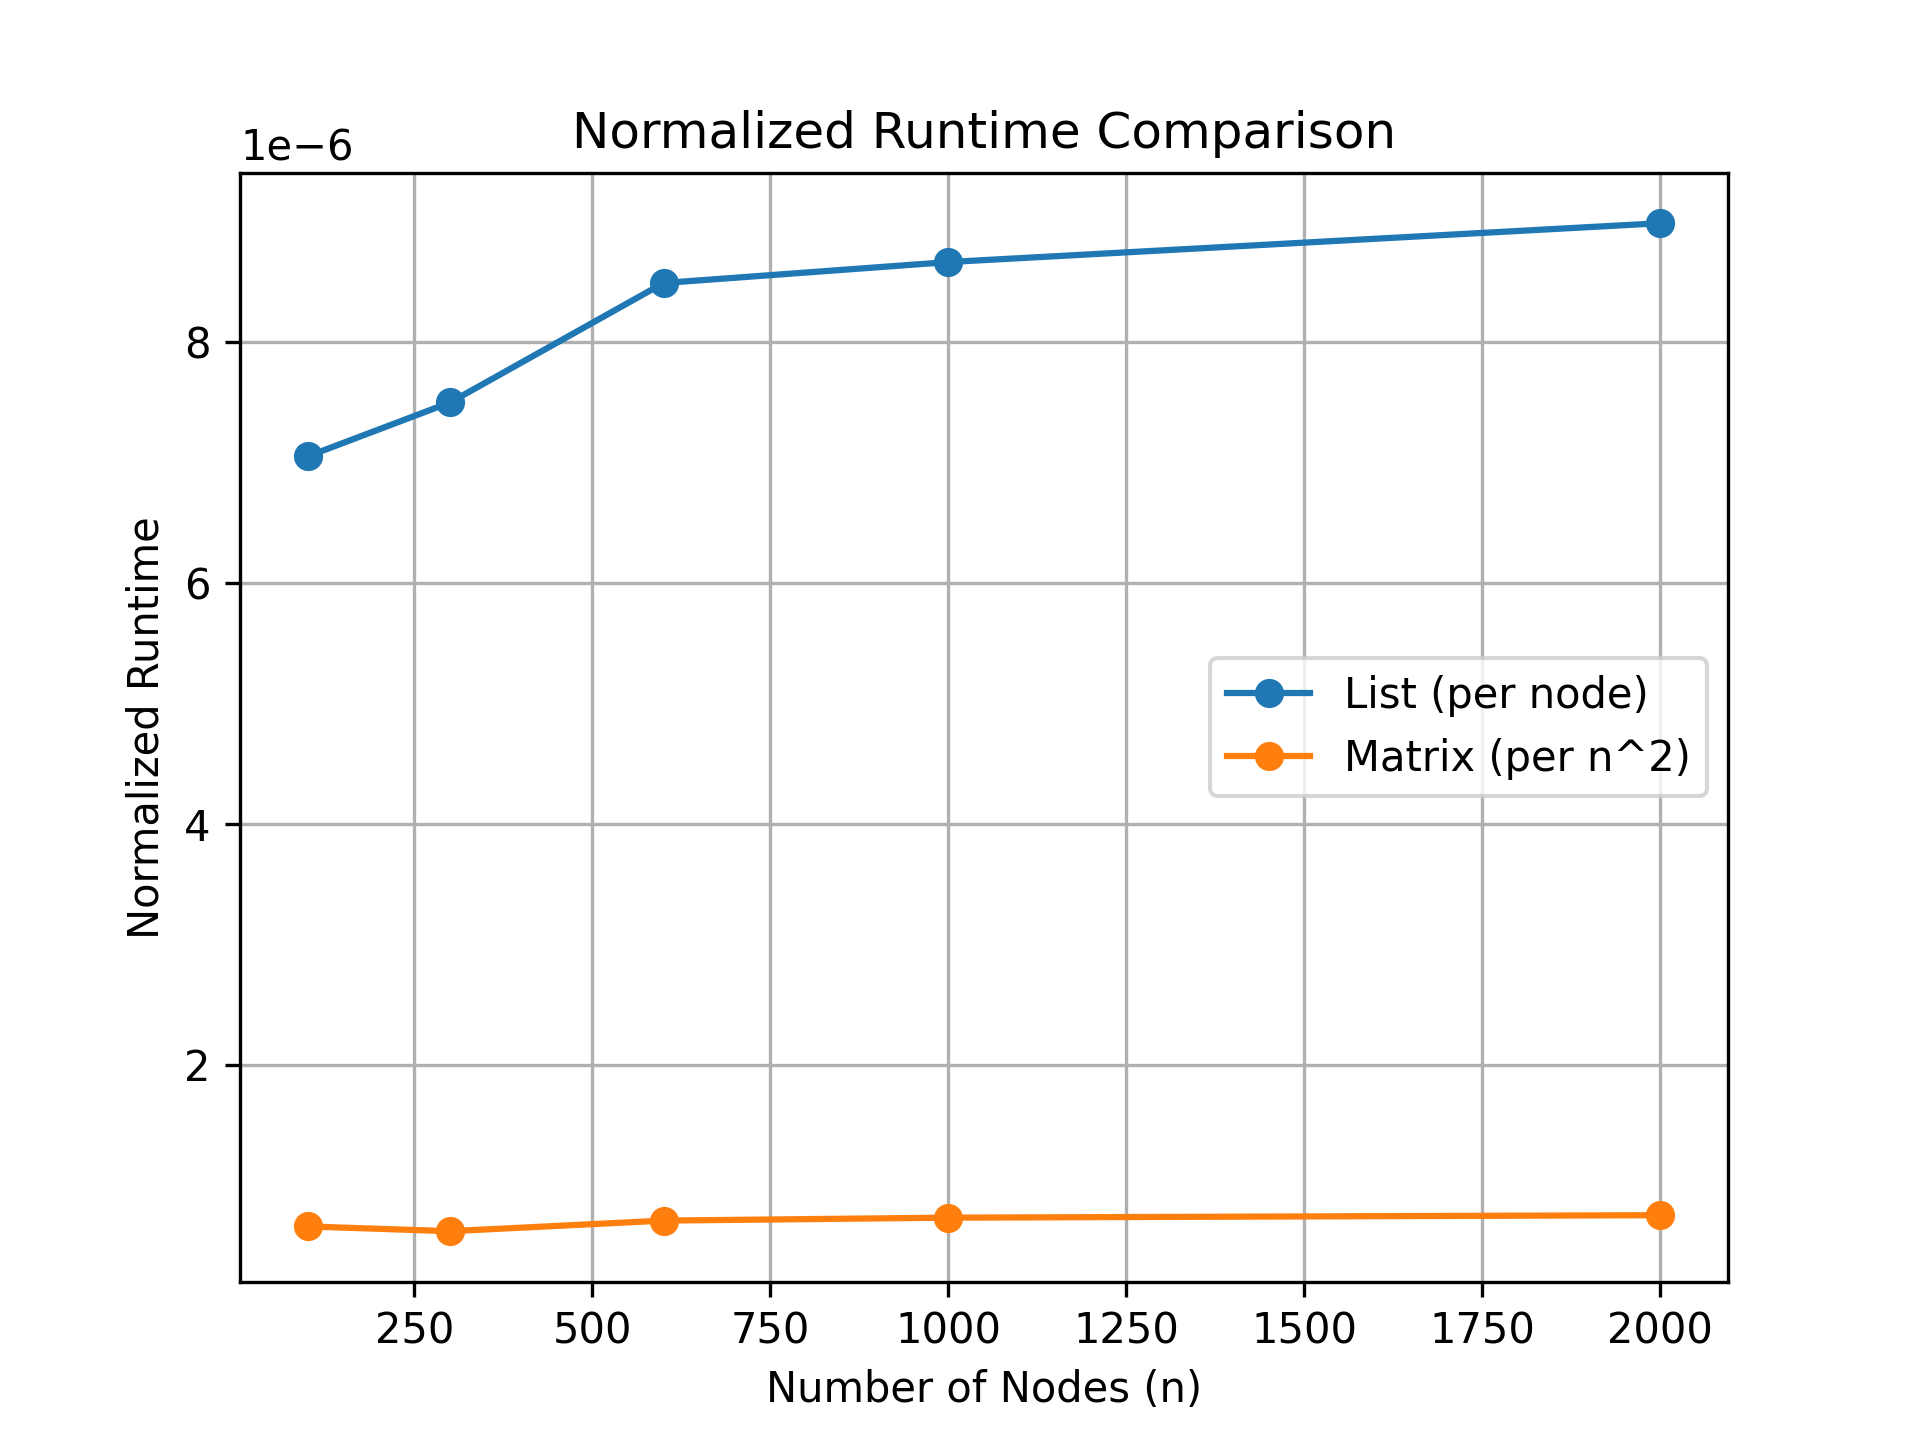
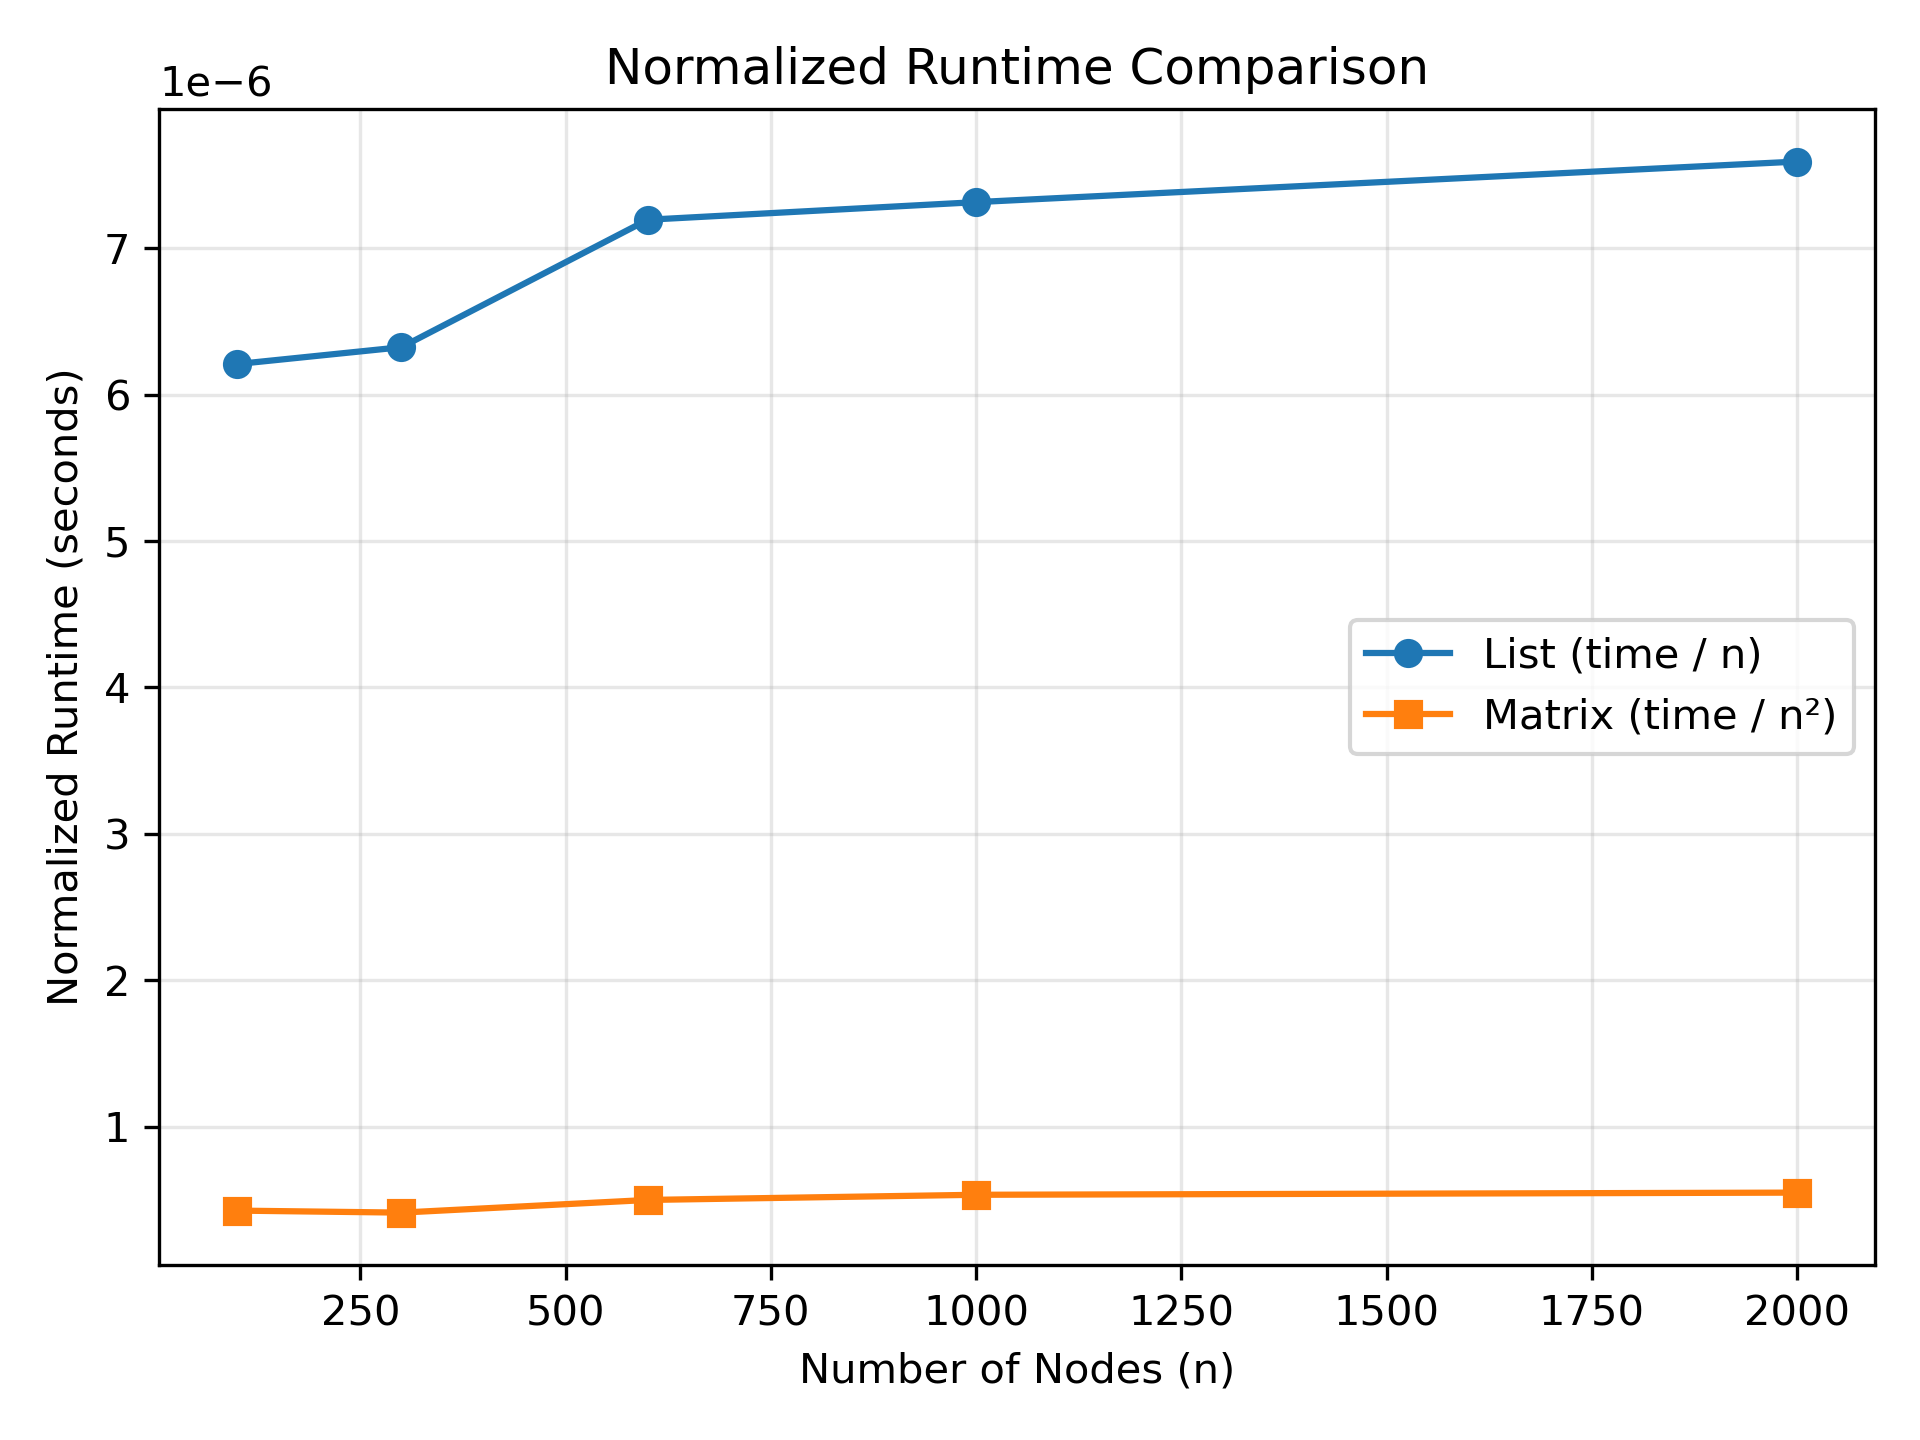
Updated graphs and memory tracking

diff --git a/pagerank.py b/pagerank.py
@@ -1,69 +1,113 @@
+"""
+PageRank Graph Representation Experiments
+
+Compares two graph representations for PageRank computation:
+  1. Adjacency Matrix  (O(N^2) space)
+  2. Adjacency List    (O(N + E) space)
+
+Measurements:
+  - Runtime vs graph size (with error bars over multiple trials)
+  - Normalized runtime (validates theoretical scaling)
+  - Runtime vs graph density
+  - Peak resident memory via tracemalloc (byte-level measurement)
+"""
+
 import random
 import time
-import matplotlib.pyplot as plt
+import tracemalloc
 import numpy as np
+import matplotlib.pyplot as plt
+
 
 # Graph Generation
 
-def generate_sparse_graph(n, avg_degree=3):
+def generate_sparse_graph(n, avg_degree=3, seed=None):
+    """Generate a random directed graph with approximately `avg_degree` out-edges per node."""
+    rng = random.Random(seed)
     graph = {i: set() for i in range(n)}
     for i in range(n):
         for _ in range(avg_degree):
-            j = random.randint(0, n-1)
+            j = rng.randint(0, n - 1)
             if j != i:
                 graph[i].add(j)
     return graph
 
 
-def generate_dense_graph(n, density=0.3):
+def generate_dense_graph(n, density=0.3, seed=None):
+    """Generate a random directed graph where each possible edge exists with probability `density`."""
+    rng = random.Random(seed)
     graph = {i: set() for i in range(n)}
     for i in range(n):
         for j in range(n):
-            if i != j and random.random() < density:
+            if i != j and rng.random() < density:
                 graph[i].add(j)
     return graph
+
 
 # Conversions
 
 def to_adjacency_matrix(graph, n):
-    matrix = [[0]*n for _ in range(n)]
+    """Convert dict-of-sets to an N x N list-of-lists adjacency matrix."""
+    matrix = [[0] * n for _ in range(n)]
     for i in graph:
         for j in graph[i]:
             matrix[i][j] = 1
     return matrix
 
+
 # PageRank Implementations
 
 def pagerank_list(graph, n, d=0.85, iterations=50):
-    pr = [1/n]*n
+    """PageRank over dict-of-sets adjacency list."""
+    pr = [1 / n] * n
     for _ in range(iterations):
-        new_pr = [(1-d)/n]*n
+        new_pr = [(1 - d) / n] * n
         for i in range(n):
-            if len(graph[i]) == 0:
+            out = graph[i]
+            if not out:
                 continue
-            share = pr[i] / len(graph[i])
-            for j in graph[i]:
-                new_pr[j] += d * share
+            share = d * pr[i] / len(out)
+            for j in out:
+                new_pr[j] += share
         pr = new_pr
     return pr
 
 
 def pagerank_matrix(matrix, n, d=0.85, iterations=50):
-    pr = [1/n]*n
+    """PageRank over dense N x N adjacency matrix."""
+    pr = [1 / n] * n
     outdeg = [sum(row) for row in matrix]
 
     for _ in range(iterations):
-        new_pr = [(1-d)/n]*n
+        new_pr = [(1 - d) / n] * n
         for i in range(n):
             if outdeg[i] == 0:
                 continue
+            share = d * pr[i] / outdeg[i]
+            row = matrix[i]
             for j in range(n):
-                if matrix[i][j] == 1:
-                    new_pr[j] += d * pr[i] / outdeg[i]
+                if row[j]:
+                    new_pr[j] += share
         pr = new_pr
     return pr
 
-# Utilities
+### Utility Functions
+
+# Correctness Check
+
+def verify_implementations_agree(n=100, tol=1e-9):
+    graph = generate_sparse_graph(n, seed=42)
+    matrix = to_adjacency_matrix(graph, n)
+
+    pr_list = pagerank_list(graph, n)
+    pr_mat = pagerank_matrix(matrix, n)
+
+    max_diff = max(abs(a - b) for a, b in zip(pr_list, pr_mat))
+    assert max_diff < tol, f"List vs Matrix mismatch: {max_diff}"
+    print(f"[verify] Both implementations agree (max diff < {tol}) (success)")
+
+
+# Timing Utility
 
 def timed_run(func, *args, trials=5):
     times = []
@@ -71,118 +115,143 @@ def timed_run(func, *args, trials=5):
         start = time.perf_counter()
         func(*args)
         times.append(time.perf_counter() - start)
-    return np.mean(times), np.std(times)
+    return float(np.mean(times)), float(np.std(times))
 
-# Experiment 1: Runtime vs Size + Normalization + Error Bars
+
+# Memory Measurement (tracemalloc)
+
+def measure_build_memory(build_fn, *args):
+    """
+    Measure peak bytes allocated while constructing a data structure.
+    Returns (peak_bytes, constructed_object).
+    """
+    tracemalloc.start()
+    tracemalloc.clear_traces()
+    obj = build_fn(*args)
+    _, peak = tracemalloc.get_traced_memory()
+    tracemalloc.stop()
+    return peak, obj
+
+
+# Experiment 1: Runtime vs Graph Size
 
 def experiment_runtime_vs_size():
+    print("\n[exp1] Runtime vs graph size (sparse graphs)")
     sizes = [100, 300, 600, 1000, 2000]
-    list_times, matrix_times = [], []
-    list_std, matrix_std = [], []
+
+    list_times, list_std = [], []
+    matrix_times, matrix_std = [], []
     list_norm, matrix_norm = [], []
 
     for n in sizes:
-        graph = generate_sparse_graph(n)
+        graph = generate_sparse_graph(n, seed=n)
         matrix = to_adjacency_matrix(graph, n)
 
         lt, ls = timed_run(pagerank_list, graph, n)
         mt, ms = timed_run(pagerank_matrix, matrix, n)
 
-        list_times.append(lt)
-        matrix_times.append(mt)
-        list_std.append(ls)
-        matrix_std.append(ms)
+        list_times.append(lt);    list_std.append(ls)
+        matrix_times.append(mt);  matrix_std.append(ms)
 
         list_norm.append(lt / n)
-        matrix_norm.append(mt / (n*n))
+        matrix_norm.append(mt / (n * n))
 
-    # Raw runtime plot
+        print(f"  n={n:5d}  list={lt:.4f}s  matrix={mt:.4f}s")
+
+    # Raw runtime plot with error bars
     plt.figure()
-    plt.errorbar(sizes, list_times, yerr=list_std, marker='o', label='Adjacency List')
-    plt.errorbar(sizes, matrix_times, yerr=matrix_std, marker='o', label='Adjacency Matrix')
+    plt.errorbar(sizes, list_times,   yerr=list_std,   marker='o', label='Adjacency List',   capsize=3)
+    plt.errorbar(sizes, matrix_times, yerr=matrix_std, marker='s', label='Adjacency Matrix', capsize=3)
     plt.xlabel('Number of Nodes (n)')
     plt.ylabel('Runtime (seconds)')
     plt.title('Runtime vs Graph Size (Sparse Graphs)')
     plt.legend()
-    plt.grid()
-    plt.savefig('runtime_vs_size.png', dpi=300)
+    plt.grid(alpha=0.3)
+    plt.tight_layout()
+    plt.savefig('figures/runtime_vs_size.png', dpi=300)
     plt.close()
 
     # Normalized runtime plot
     plt.figure()
-    plt.plot(sizes, list_norm, marker='o', label='List (per node)')
-    plt.plot(sizes, matrix_norm, marker='o', label='Matrix (per n^2)')
+    plt.plot(sizes, list_norm,   marker='o', label='List (time / n)')
+    plt.plot(sizes, matrix_norm, marker='s', label='Matrix (time / n²)')
     plt.xlabel('Number of Nodes (n)')
-    plt.ylabel('Normalized Runtime')
+    plt.ylabel('Normalized Runtime (seconds)')
     plt.title('Normalized Runtime Comparison')
     plt.legend()
-    plt.grid()
-    plt.savefig('runtime_normalized.png', dpi=300)
+    plt.grid(alpha=0.3)
+    plt.tight_layout()
+    plt.savefig('figures/runtime_normalized.png', dpi=300)
     plt.close()
 
-# Experiment 2: Runtime vs Density
+
+# Experiment 2: Runtime vs Graph Density
 
 def experiment_runtime_vs_density():
+    print("\n[exp2] Runtime vs graph density (n = 1000)")
     densities = [0.01, 0.05, 0.1, 0.2, 0.3, 0.5]
     n = 1000
+
     list_times, matrix_times = [], []
 
     for d in densities:
-        graph = generate_dense_graph(n, d)
+        graph = generate_dense_graph(n, d, seed=int(d * 1000))
         matrix = to_adjacency_matrix(graph, n)
 
-        lt, _ = timed_run(pagerank_list, graph, n)
-        mt, _ = timed_run(pagerank_matrix, matrix, n)
+        lt, _ = timed_run(pagerank_list, graph, n, trials=3)
+        mt, _ = timed_run(pagerank_matrix, matrix, n, trials=3)
 
         list_times.append(lt)
         matrix_times.append(mt)
 
+        print(f"  density={d:.2f}  list={lt:.4f}s  matrix={mt:.4f}s")
+
     plt.figure()
-    plt.plot(densities, list_times, marker='o', label='Adjacency List')
-    plt.plot(densities, matrix_times, marker='o', label='Adjacency Matrix')
+    plt.plot(densities, list_times,   marker='o', label='Adjacency List')
+    plt.plot(densities, matrix_times, marker='s', label='Adjacency Matrix')
     plt.xlabel('Graph Density')
     plt.ylabel('Runtime (seconds)')
     plt.title('Runtime vs Graph Density (n = 1000)')
     plt.legend()
-    plt.grid()
-    plt.savefig('runtime_vs_density.png', dpi=300)
+    plt.grid(alpha=0.3)
+    plt.tight_layout()
+    plt.savefig('figures/runtime_vs_density.png', dpi=300)
     plt.close()
 
-# Experiment 3: Memory Comparison (Log Scale)
 
-def estimate_memory(graph, matrix, n):
-    list_memory = sum(len(v) for v in graph.values())
-    matrix_memory = n * n
-    return list_memory, matrix_memory
-
+# Experiment 3: Memory Usage
 
 def experiment_memory():
+    print("\n[exp3] Peak memory usage (tracemalloc, bytes)")
     sizes = [100, 300, 600, 1000, 2000]
-    list_memories, matrix_memories = [], []
+
+    list_mem, matrix_mem = [], []
 
     for n in sizes:
-        graph = generate_sparse_graph(n)
-        matrix = to_adjacency_matrix(graph, n)
+        list_peak,   graph = measure_build_memory(generate_sparse_graph, n, 3, n)
+        matrix_peak, _     = measure_build_memory(to_adjacency_matrix, graph, n)
 
-        list_mem, matrix_mem = estimate_memory(graph, matrix, n)
-        list_memories.append(list_mem)
-        matrix_memories.append(matrix_mem)
+        list_mem.append(list_peak)
+        matrix_mem.append(matrix_peak)
+
+        print(f"  n={n:5d}  list={list_peak:>10,}B  matrix={matrix_peak:>12,}B")
 
     plt.figure()
-    plt.plot(sizes, list_memories, marker='o', label='Adjacency List')
-    plt.plot(sizes, matrix_memories, marker='o', label='Adjacency Matrix')
+    plt.plot(sizes, list_mem,   marker='o', label='Adjacency List')
+    plt.plot(sizes, matrix_mem, marker='s', label='Adjacency Matrix')
     plt.yscale('log')
     plt.xlabel('Number of Nodes (n)')
-    plt.ylabel('Memory (log scale)')
-    plt.title('Memory Usage Comparison (Log Scale)')
+    plt.ylabel('Peak Memory (bytes, log scale)')
+    plt.title('Memory Usage Comparison')
     plt.legend()
-    plt.grid()
-    plt.savefig('memory_comparison_log.png', dpi=300)
+    plt.grid(alpha=0.3, which='both')
+    plt.tight_layout()
+    plt.savefig('figures/memory_comparison_log.png', dpi=300)
     plt.close()
 
-# Run All
-
 if __name__ == "__main__":
+    verify_implementations_agree()
     experiment_runtime_vs_size()
     experiment_runtime_vs_density()
     experiment_memory()
+    print("\nAll experiments complete.")
